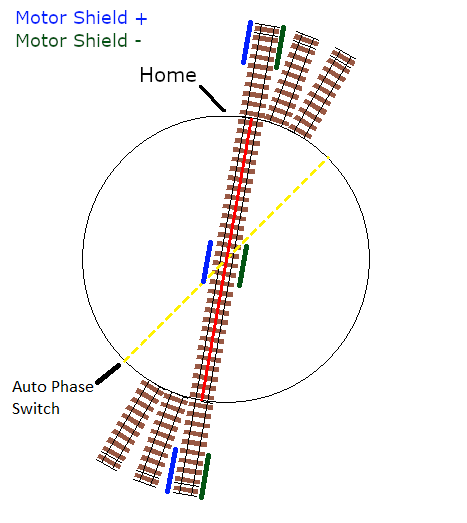
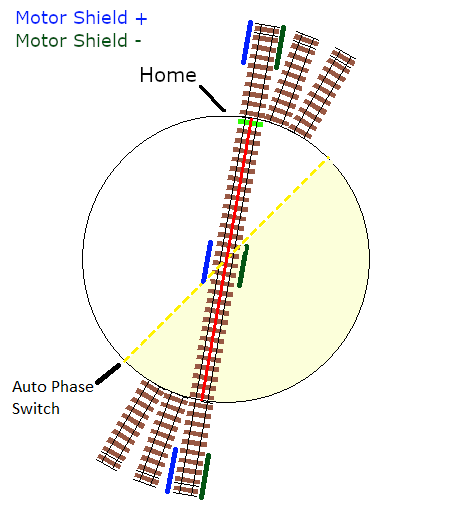
Updated for auto phase switching

Changed region(s): [[0.2698, 0.3059, 0.8094, 0.7954], [0.5096, 0.2141, 0.5696, 0.2447]]

diff --git a/docs/turntable-ex/test-and-tune.rst b/docs/turntable-ex/test-and-tune.rst
@@ -40,7 +40,7 @@ For the diagnostic command, "activity" needs to be defined as a number, whereas 
       - Turn to the desired step position
     * - 1
       - Turn_PInvert
-      - Turn to the desired step position and invert the phase/polarity
+      - Turn to the desired step position and invert the phase/polarity (required for manual phase switching only)
     * - 2
       - Home
       - Activate the homing process, ignores the provided step position
@@ -66,14 +66,12 @@ For the diagnostic command, "activity" needs to be defined as a number, whereas 
       - Acc_Off
       - Turns the accessory output off, ignores the provided step position
 
-Here's a quick example to demonstrate the difference between the diagnostic and EX-RAIL commands, with both commands below rotating to step position 100, and both inverting the phase/polarity of the bridge track:
+Here's a quick example to demonstrate the difference between the diagnostic and EX-RAIL commands, with both commands below rotating to step position 100:
 
 .. code-block:: 
 
-  <D TT 600 100 1>
-  MOVETT(600, 100, Turn_PInvert)
-
-Note with the phase/polarity inversion, this activity must be defined for every position that requires the phase to be inverted compared with the surrounding tracks. If it is not defined, the relays will be deactivated, resulting in no phase/polarity inversion. The examples below will help clarify this.
+  <D TT 600 100 0>
+  MOVETT(600, 100, Turn)
 
 Testing Turntable-EX
 =====================
@@ -95,35 +93,44 @@ If there is an "OFFLINE" at the end of the Turntable-EX line, it indicates somet
 
 At power on, note that the turntable should have moved itself to the home position, so all commands below assume this is the case.
 
+.. note:: 
+
+  For all testing and tuning below, it is assumed that the default option for automatic phase switching is enabled, and that the default ULN2003/28BYJ-48 stepper driver and motor combination is in use in half step mode, which is ~4096 steps per revolution.
+
+  For automatic phase switching, this should translate to ~512 steps for the 45 degree phase switch trigger point, and ~2560 steps for the 225 degree revert trigger point.
+
 This command should rotate the turntable 100 steps only:
 
 .. code-block:: 
 
   <D TT 600 100 0>
 
-This command should rotate the turntable a further 500 steps (the difference between the existing 100 steps and target 600 steps) only:
+This command should rotate the turntable a further 500 steps and active the phase inversion relays:
+
+ - 500 is the difference between the existing 100 steps and target 600 steps
+ - 600 steps is greater than the ~512 step/45 degree trigger position for phase inversion
 
 .. code-block:: 
 
   <D TT 600 600 0>
 
-This next command should rotate the turntable in the reverse direction by 300 steps:
+This next command should rotate the turntable in the reverse direction by 300 steps and deactivate the phase inversion relays:
+
+- 300 is the difference between the existing 600 steps and target 300 steps, with the reverse direction being the shortest path there
+- 300 steps is less than the ~512 step/45 degree trigger position for phase inversion
 
 .. code-block:: 
 
   <D TT 600 300 0>
 
-This command should rotate the turntable again in the reverse direction, however should also activate both phase switching relays:
+This command should rotate the turntable again in the reverse direction, and should also activate the phase inversion relays:
+
+- 2000 steps is greater than the ~512 step/45 degree trigger position for phase inversion
+- It is also less than the ~2560 step/225 degree trigger position to revert the inversion
 
 .. code-block:: 
   
   <D TT 600 2000 1>
-
-This command should rotate the the turntable further in the reverse direction, and deactivate the phase switching relays:
-
-.. code-block::
-
-  <D TT 600 1500 0>
 
 Finally, this command will cause the turntable to once again find its home position:
 
@@ -142,11 +149,7 @@ Tuning your turntable positions
 
   To determine your starting positions, you will need the full turn step count as recorded in :ref:`turntable-ex/get-started:automatic calibration`.
 
-To tune your turntable positions, there are two aspects to consider.
-
-First will be the number of steps from the home position the turntable needs to rotate in order to reach the desired position. By default, the turntable will turn in a clockwise direction (as demonstrated by the homing activity).
-
-Second will be the phase or polarity required for the bridge track to match the connecting layout tracks, as described in the :ref:`turntable-ex/turntable-ex:important! phase (or polarity) switching` section.
+To tune your turntable positions, you will need to calculate the number of steps from the home position the turntable needs to rotate in order to reach the desired position. By default, the turntable will turn in a clockwise direction (as demonstrated by the homing activity).
 
 Determine the positions
 ________________________
@@ -194,13 +197,6 @@ Therefore, using our formula, the starting point for each position will be:
       - 210
       - 2386
 
-Determine phase switching
-__________________________
-
-Assuming your layout tracks are wired correctly as per :ref:`turntable-ex/turntable-ex:important! phase (or polarity) switching`, each of the positions determined above will need to have the phase set correctly.
-
-In the provided example, positions 1, 2, and 3 would match the surrounding track polarity, with positions 4 through 6 requiring the phase/polarity to be switched.
-
 Example tuning commands
 ________________________
 
@@ -211,18 +207,18 @@ To validate the above calculated positions, the following six diagnostic command
   <D TT 600 114 0>
   <D TT 600 227 0>
   <D TT 600 341 0>
-  <D TT 600 2159 1>
-  <D TT 600 2273 1>
-  <D TT 600 2386 1>
+  <D TT 600 2159 0>
+  <D TT 600 2273 0>
+  <D TT 600 2386 0>
 
 If you find any of these positions are slightly out of alignment, simply adjust the step count as appropriate to compensate.
 
-Note that the last three positions all invert the DCC phase or polarity, which should ensure that the bridge track maintains the same phase/polarity as the connecting layout tracks, meaning no short circuits.
+Note that due to the automatic phase inversion, the last three positions will automatically active the phase inversion relays due to being within the 45 to 225 degree angles that activates phase inversion.
 
 Apply to your layout
 _____________________
 
-At this point, you should be able to apply the above calculations to your own layout and come up with the step count and phase/polarity settings required for each position.
+At this point, you should be able to apply the above calculations to your own layout and come up with the step count required for each position.
 
 Use appropriate diagnostic commands to test and tune each position for that perfect alignment, and providing your layout is functional, you should be able to drive a locomotive on and off your turntable in each position.
 
@@ -274,4 +270,4 @@ In a similar manner, if you prefer the turntable starts at some other position, 
 .. code-block:: cpp
 
   MOVETT(600, 167, Turn)            // Default moves to position one, edit this line to look like the below
-  MOVETT(600, 2386, Turn_PInvert)   // Move instead to position six, note the required DCC phase inversion to prevent a short circuit
+  MOVETT(600, 2386, Turn)           // Move instead to position six

diff --git a/docs/turntable-ex/turntable-ex.rst b/docs/turntable-ex/turntable-ex.rst
@@ -161,7 +161,7 @@ __________________________
 
 To control the turntable, the simplest method is using EX-RAIL automation commands advertised as ROUTEs to the throttle of your choice.
 
-Refer to the :ref:`turntable-ex/configure:testing, tuning, and control` page for more details on this.
+Refer to the :ref:`turntable-ex/test-and-tune:testing, tuning, and control` page for more details on this.
 
 Important! Phase (or polarity) switching
 _________________________________________
@@ -210,24 +210,48 @@ Now consider inverting or reversing the phase when performing that 180 degree tu
   :alt: 180 degrees
   :scale: 45%
 
-How does Turntable-EX help with this?
+How does this work with Turntable-EX?
 ^^^^^^^^^^^^^^^^^^^^^^^^^^^^^^^^^^^^^^
 
+Turntable-EX supports automatic phase switching by default, but can also be controlled manually by both EX-RAIL and diagnostic commands.
 
+With the default automatic phase switching, once the turntable rotates 45 degrees away from the home position, it will automatically invert the DCC phase, with the phase then reverting 180 degrees later once the turntable rotates to 225 degrees from the home position.
+
+In the diagrams below, the "home" end of the turntable bridge is indicated by the bright green sleeper, with the "home" position of 0 degrees being located at the top of the diagram. The surrounding layout tracks are separated by 10 degrees.
+
+The yellow dashed line represents the 45/225 degree trigger points to invert and revert the phase switching, with the light yellow shaded area representing the 180 degrees in which the phase will be inverted.
+
+The surrounding layout tracks have been wired so that each opposing track is wired the same.
+
+To start, with the turntable bridge is aligned with the first layout track, which is 10 degrees from the home position, and all our phases are in alignment.
 
 .. image:: ../_static/images/turntable-ex/auto-phase-switch-start.png
-  :alt: No rotation
-  :scale: 60%
+  :alt: Aligned with first track
+  :scale: 100%
+
+Next, we've sent a command for the turntable to rotate 180 degrees, which requires our phase to be inverted in order to prevent a short circuit.
+
+As this will trigger the turntable to rotate beyond our 45 degree trigger point, the phase will automatically be inverted.
 
 .. image:: ../_static/images/turntable-ex/auto-phase-switch-trigger.png
-  :alt: 90 degrees
-  :scale: 60%
+  :alt: Rotate beyond 45 degrees
+  :scale: 100%
 
-.. image:: ../_static/images/turntable-ex/auto-phase-switch-start.png
-  :alt: 180 degrees
-  :scale: 60%
+Once the turntable reaches the correction position, all our phases will be in alignment, meaning our locomotive can leave or enter the turntable with no short circuit issues.
 
-I'm Ready!
-===========
+.. image:: ../_static/images/turntable-ex/auto-phase-switch-end.png
+  :alt: Rotated 180 degrees
+  :scale: 100%
 
-Click the "next" button to get started assembling Turntable-EX.
+If the turntable continues to rotate beyond the 225 degree point, the phase will revert again.
+
+.. image:: ../_static/images/turntable-ex/auto-phase-switch-revert.png
+  :alt: Rotated 180 degrees
+  :scale: 100%
+
+The above outlines how the default automatic phase switching works with Turntable-EX, and this behaviour is configurable. Refer to ...
+
+Time to assemble
+=================
+
+Now that you have a general overview of Turntable-EX's features and capabilities, click the "next" button to get started on assembly.

diff --git a/docs/turntable-ex/get-started.rst b/docs/turntable-ex/get-started.rst
@@ -290,11 +290,11 @@ Automatic calibration
 
 .. note:: 
 
-  If you have loaded the code too soon, and the automatic calibration has succeeded and recorded an inaccurate step count, then have no fear as there is a command you can run on the CommandStation to reinitiate the calibration sequence which is outlined in the :ref:`turntable-ex/configure:turntable-ex commands` section.
+  If you have loaded the code too soon, and the automatic calibration has succeeded and recorded an inaccurate step count, then have no fear as there is a command you can run on the CommandStation to reinitiate the calibration sequence which is outlined in the :ref:`turntable-ex/test-and-tune:turntable-ex commands` section.
 
 When Turntable-EX is first loaded onto your Arduino, and it has successfully performed the homing process outlined above, it will commence an automatic calibration sequence. This involves several rotations of the turntable to ensure it is homed accurately, and is then able to count the steps required to complete a full rotation of the turntable.
 
-Once the calibration sequence has completed, it will display the step count for an entire rotation, which you should take note of for calculating the various positions in :ref:`turntable-ex/configure:tuning your turntable positions`.
+Once the calibration sequence has completed, it will display the step count for an entire rotation, which you should take note of for calculating the various positions in :ref:`turntable-ex/test-and-tune:tuning your turntable positions`.
 
 The output in the serial console should look similar to the below:
 

diff --git a/docs/turntable-ex/index.rst b/docs/turntable-ex/index.rst
@@ -9,5 +9,5 @@ Welcome to the home of Turntable-EX, a fully integrated turntable controller for
 
     turntable-ex
     get-started
-    configure
+    test-and-tune
     troubleshooting
